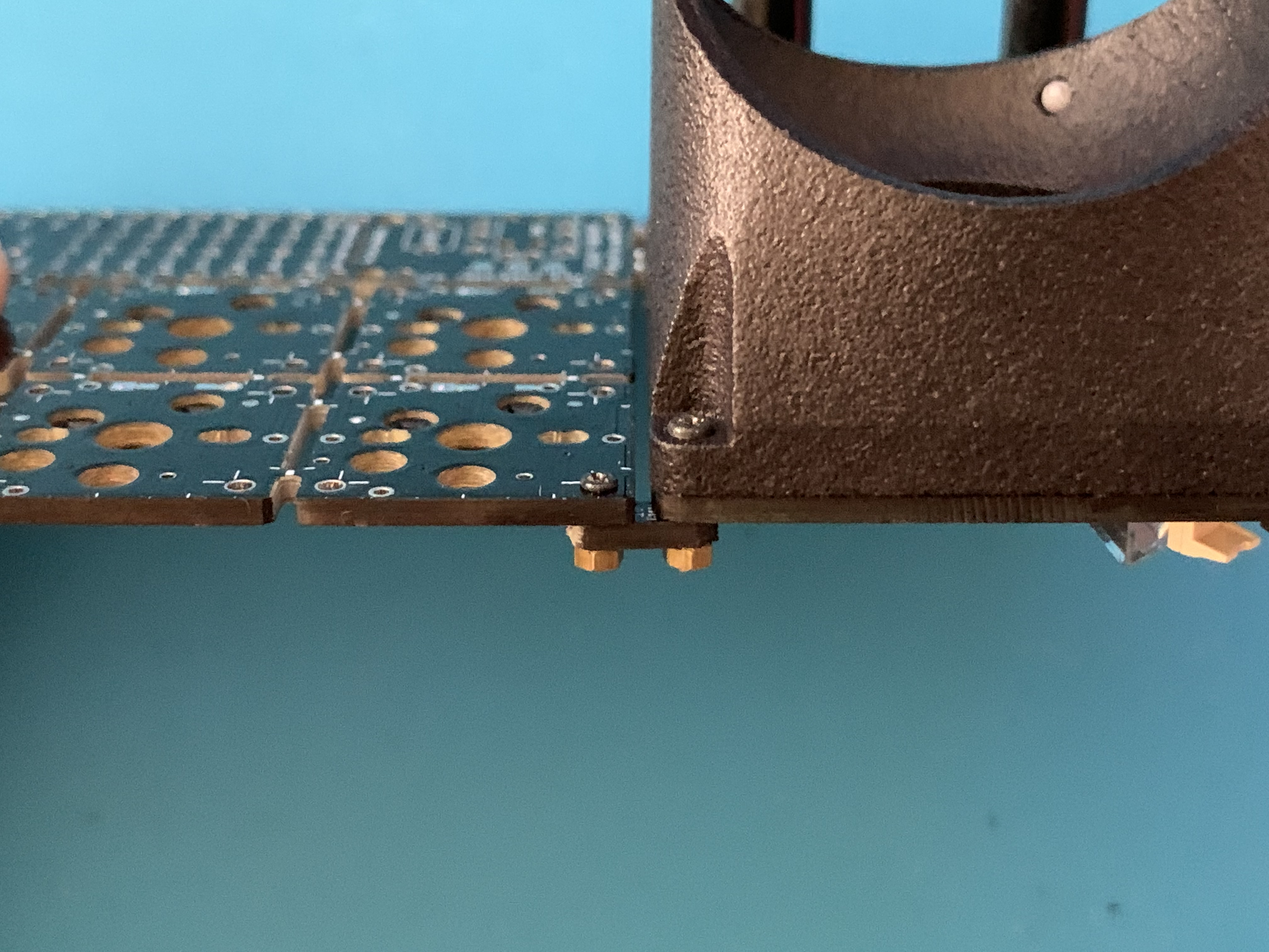
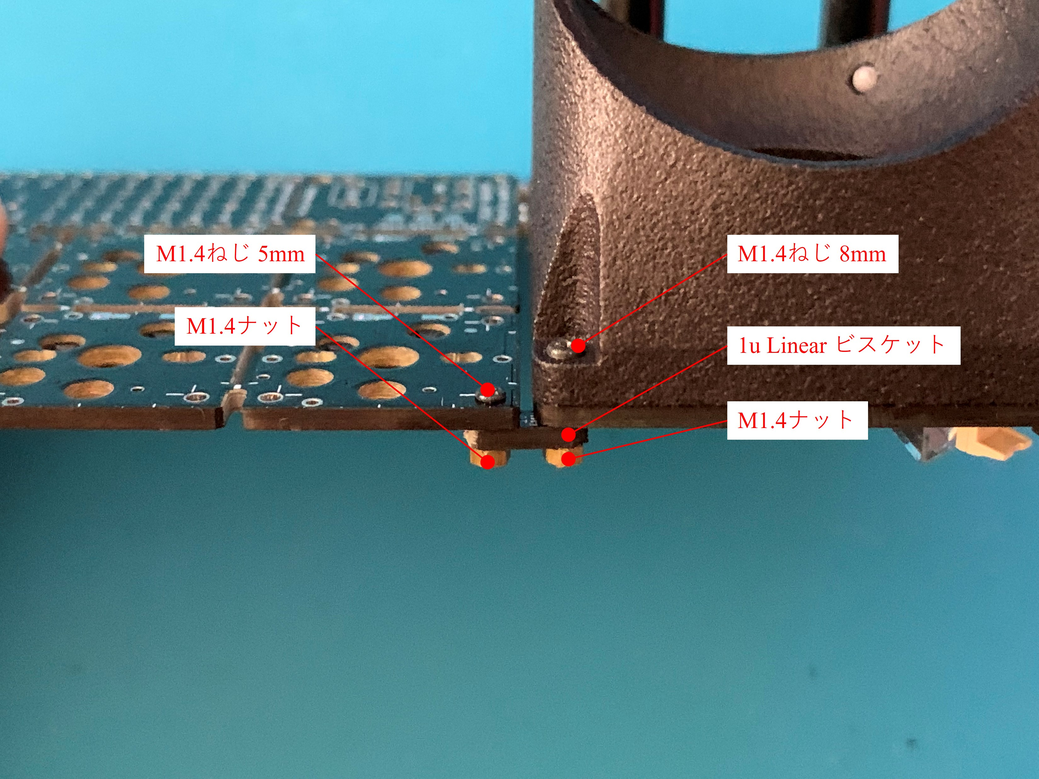
update buildguide

diff --git a/doc/buildguide_su120.md b/doc/buildguide_su120.md
@@ -1,0 +1,104 @@
+# Build Guide - SU120 Customize
+
+![trackball_module_main00](/images/main_03.jpg)
+
+meishi trackball moduleをモジュールとして他のキーボードに接続する作例を紹介します。
+トラックボールモジュールをキーボードに接続する条件は下記になります。
+
+- GPIOピンに3ピン以上空きがあること
+- 5V電源のProMicro互換機であること（3.3V電源の機器を用いる場合はレベル変換が必要になります。）
+
+ここでは様々なレイアウトのスタディを行う事に長けているSU120を用いて、トラックボール付きのマクロパッドを作成します。
+
+
+## 部品
+
+meishi trackball moduleのベースキットの他に、下記パーツを用います。ご自身のレイアウトに応じて適宜数字を読み替えてください。
+
+|名前|数|備考|
+|---|---|---|
+|SU120基板|適宜||
+|M1.4ねじ 5mm|適宜||
+|M1.4ねじ 8mm|2～4本||
+|M1.4ナット|適宜||
+|MicroUSB or USB-TypeCケーブル|1本||
+|ProMicro|1個||
+|コンスル― or ピンヘッダ（2.5mm×12ピン）|2本||
+|キースイッチ|適宜|MX互換 or Choc v1|
+|キーキャップ|適宜|MX互換 or Choc v1|
+|ロータリーエンコーダ（EC12互換）|0～4個||
+|ロータリーエンコーダ用ノブ|0～4個||
+|リセットスイッチ|1個||
+|34mmボール|1個||
+
+上記パーツは[遊舎工房](https://shop.yushakobo.jp/)、[TALP KEYBOARD](https://talpkeyboard.net/)、[Daily Craft Keyboard](https://shop.dailycraft.jp/)などで揃えることが可能です。また、18mm径ノブは[へちょあまの工房＠たねやつ支店](https://taneyats.booth.pm/items/3512697)での品揃えが豊富です。
+
+各ショップの在庫状況に応じて検討ください。
+
+
+## 組み立て
+### 0. レイアウト検討
+
+  まずはどんなレイアウトのマクロパッドを作成するか検討します。trackball moduleは2u×2uサイズで設計されているので、4キー分のスペースにちょうどおさまります。
+
+  ![su120_bg_01](/images/su120_bg_01.jpg)
+
+  今回は2×3の6キー+ロータリーエンコーダ2個のレイアウトで進めます。SU120の基板を切り離し、やすりなどでバリを取っておきます。
+
+  ![su120_bg_02](/images/su120_bg_02.jpg)
+
+### 1. パーツ類はんだ付け
+
+  ソケット、ダイオード、ロータリーエンコーダ、ジャンパーなど必要箇所のはんだ付けを行います。SU120のビルドガイドや作例を参考にしてください。
+
+  ![su120_bg_03](/images/su120_bg_03.jpg)
+
+### 2. 組み立て
+
+  SU120の基板とトラックボールモジュールを固定します。SU120の基板に付属しているビスケットを用いて固定します。今回は格子配列のため1u Linearと書かれたビスケットを3つ用いています。
+
+  ![su120_bg_04](/images/su120_bg_04.jpg)
+
+  SU120の基板とトラックボールモジュールが接する部分はM1.4ねじ 8mm＋M1.4ナットでビスケットを固定します。SU120と接続しないトラックボールモジュールのねじ穴は通常通りM2ねじ 6mm＋M2ナットで固定します。  
+  M1.4ねじ 8mmは[こちら](https://wilco.jp/products/F/F-EB-03.html#page1)がおすすめです。トラックボールホルダーのねじ穴がM2用に設計されているので、ねじ頭が2.5mm以上のものが望ましいです。
+
+  ![su120_bg_05](/images/su120_bg_05.jpg)
+
+### 3. センサー接続
+
+  トラックボールモジュールのピンとSU120をケーブルで接続します。下記5本の接続が必要になります。
+
+    - VCC
+    - SDIO
+    - SCLK
+    - NCS
+    - GND
+
+  VCCとGNDはLED用のパッドかTRRSジャックのスルーホールにケーブルをはんだ付けするのが簡単です。
+
+  それ以外の3ピンは、ファーム上で設定する空きピンに対応したピンに接続するようにしてください。空きピンとなる3ピンは、SU120の回路図を見ながら自分の選んだレイアウトに応じて選択してください。
+
+  ![su120_bg_06](/images/su120_bg_06.jpg)
+
+  ![su120_bg_07](/images/su120_bg_07.jpg)
+
+  ![su120_bg_08](/images/su120_bg_08.jpg)
+
+  最後にキースイッチ、キーキャップ、ロータリーエンコーダ、トラックボールなどをはめて完成です。
+
+  ![su120_bg_09](/images/su120_bg_09.jpg)
+
+
+## ファームウェア
+
+  SU120のものをベースに書き換えます。[こちら]()を参考に、自身のレイアウトに合わせてファームウェアの更新を行い、ProMicroに書き込みを行ってください。
+
+  meishi trackball moduleやcocot46plus同様にカスタムキーコードによってトラックボールの状態を変更することも可能です。
+
+## 終わりに
+
+  何かトラブルがあれば[Twitterアカウント](https://twitter.com/aki27kbd)までご連絡ください。
+
+  また、完成写真をSNSにアップいただけるととても励みになります。（アップするのがはばかられる方はDMで直接送りつけていただいても構いません。）
+
+ハッシュタグは #trackball_module です。
